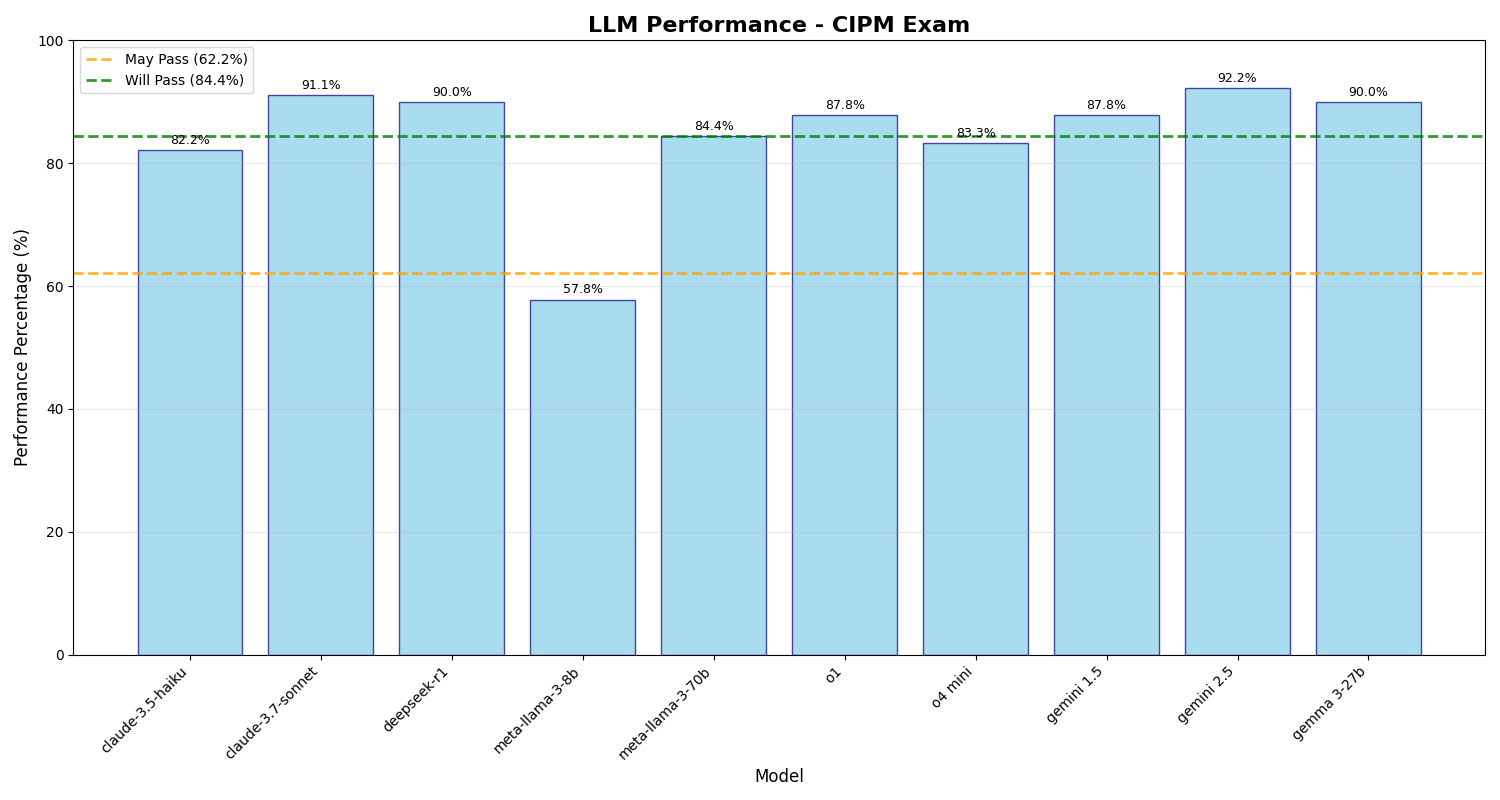
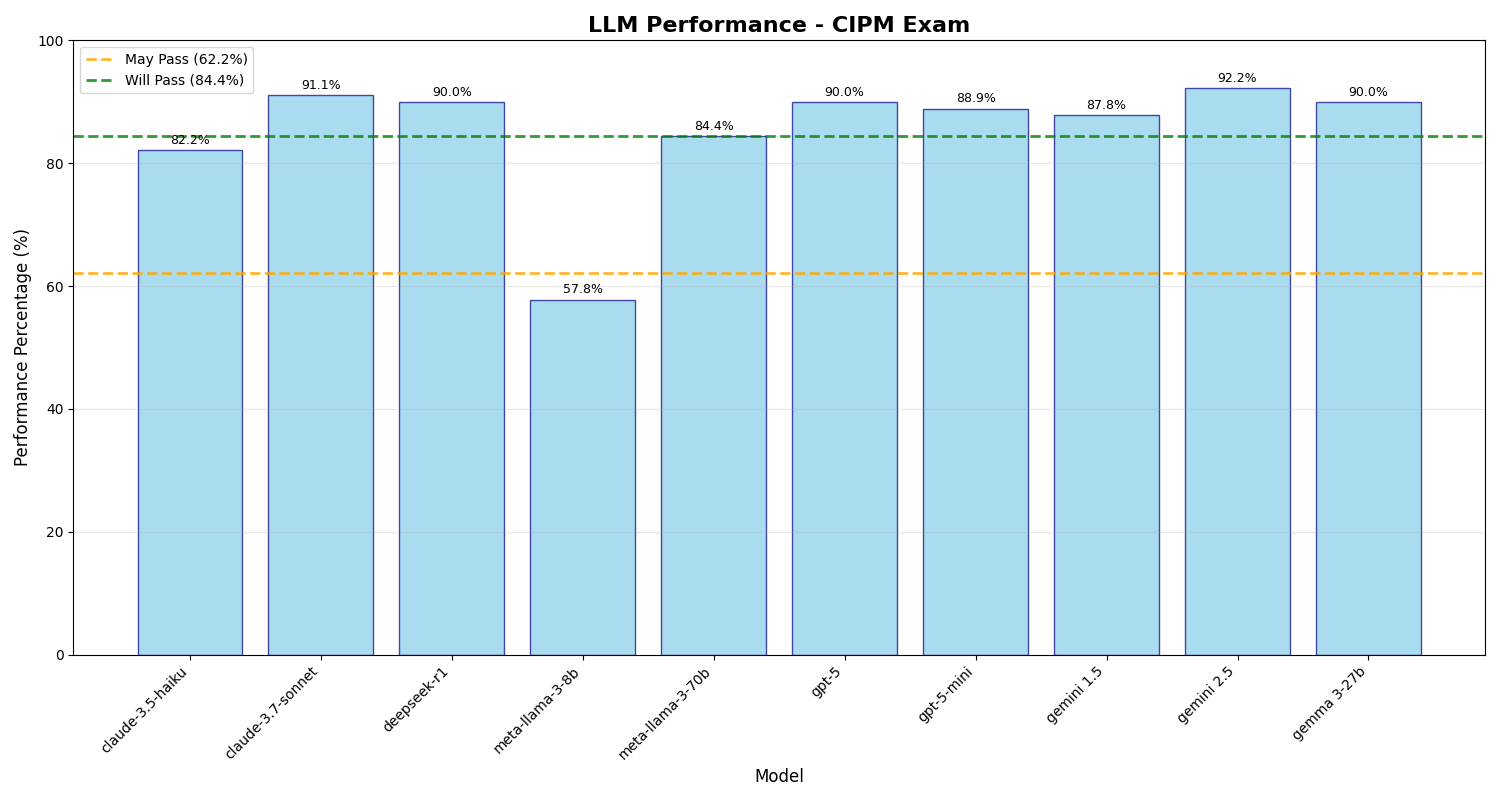
updated models

Changed region(s): [[0.5213, 0.0938, 0.7053, 0.1875], [0.6133, 0.8438, 0.644, 0.9062], [0.5213, 0.8438, 0.552, 0.875]]

diff --git a/graphs/plot_results.py b/graphs/plot_results.py
@@ -360,16 +360,16 @@ def create_aggregate_bar_chart():
 # exam_name = 'AIGP'
 # exam_name = 'CIPM'
 # exam_name = 'CIPP/US'
-exam_name = 'CIPT'
-# exam_name = 'Aggregate'
+# exam_name = 'CIPT'
+exam_name = 'Aggregate'
 
 # Create the bar chart
 # create_bar_chart(exam_name)
 
 # Create star chart for all models
-create_star_chart(exam_name)
+# create_star_chart(exam_name)
 
 # Create exam comparison star chart
-# create_exam_comparison_star_chart()
+create_exam_comparison_star_chart()
 
 # create_aggregate_bar_chart()
